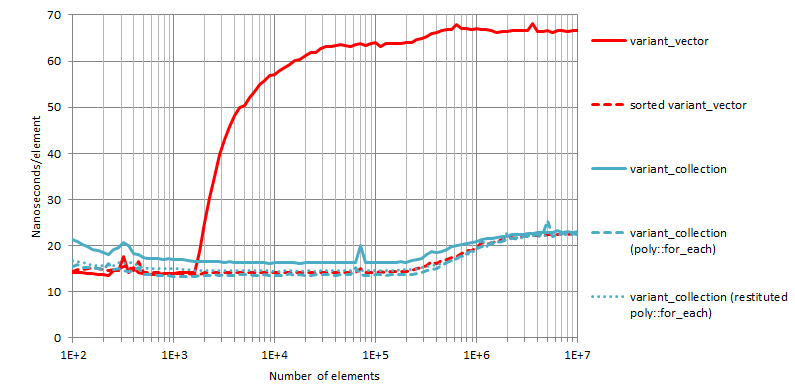
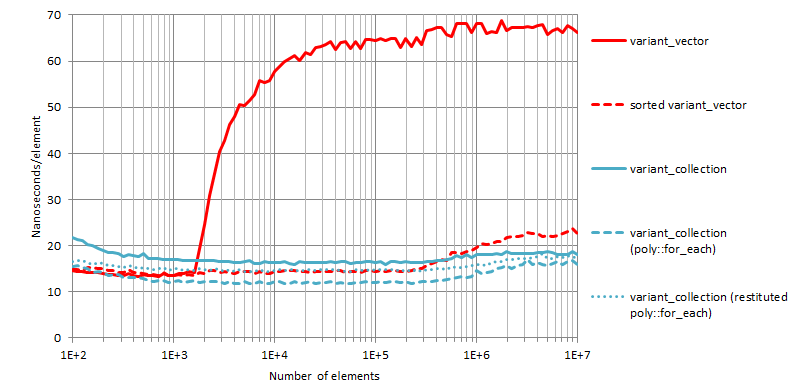
Feature/optimize `fixed_variant` index size (#29)
* optimized sizeof(fixed_variant::index_)

* refactored to work around msvc-14.0 SFINAE bug

* added narrow cast

* updated variant perf plots

diff --git a/include/boost/poly_collection/detail/fixed_variant.hpp b/include/boost/poly_collection/detail/fixed_variant.hpp
@@ -1,4 +1,4 @@
-/* Copyright 2024 Joaquin M Lopez Munoz.
+/* Copyright 2024-2025 Joaquin M Lopez Munoz.
  * Distributed under the Boost Software License, Version 1.0.
  * (See accompanying file LICENSE_1_0.txt or copy at
  * http://www.boost.org/LICENSE_1_0.txt)
@@ -20,10 +20,12 @@
 #include <boost/mp11/list.hpp>
 #include <boost/mp11/set.hpp>
 #include <boost/mp11/tuple.hpp>
+#include <boost/mp11/utility.hpp>
 #include <boost/poly_collection/detail/is_equality_comparable.hpp>
 #include <boost/poly_collection/detail/is_nothrow_eq_comparable.hpp>
 #include <boost/type_traits/is_constructible.hpp>
 #include <cstddef>
+#include <limits>
 #include <memory>
 #include <stdexcept>
 #include <type_traits>
@@ -50,6 +52,15 @@ class fixed_variant
     mp11::mp_is_set<fixed_variant>::value,
     "all types in the variant must be distinct");
 
+  static constexpr std::size_t N=sizeof...(Ts);
+  using index_type=mp11::mp_cond<
+    mp11::mp_bool<
+      (N<=(std::numeric_limits<unsigned char>::max)())>,unsigned char,
+    mp11::mp_bool<
+      (N<=(std::numeric_limits<unsigned short>::max)())>,unsigned short,
+    mp11::mp_true, std::size_t
+  >;
+
 public:
   template<
     typename T,
@@ -57,13 +68,13 @@ public:
     typename std::enable_if<
       (I<mp11::mp_size<fixed_variant>::value)>::type* =nullptr
   >
-  explicit fixed_variant(const T&):index_{I}{}
+  explicit fixed_variant(const T&):index_{static_cast<index_type>(I)}{}
 
   std::size_t index()const noexcept{return index_;}
   bool        valueless_by_exception()const noexcept{return false;}
 
 private:
-  std::size_t index_;
+  index_type index_;
 };
 
 template<typename T>
